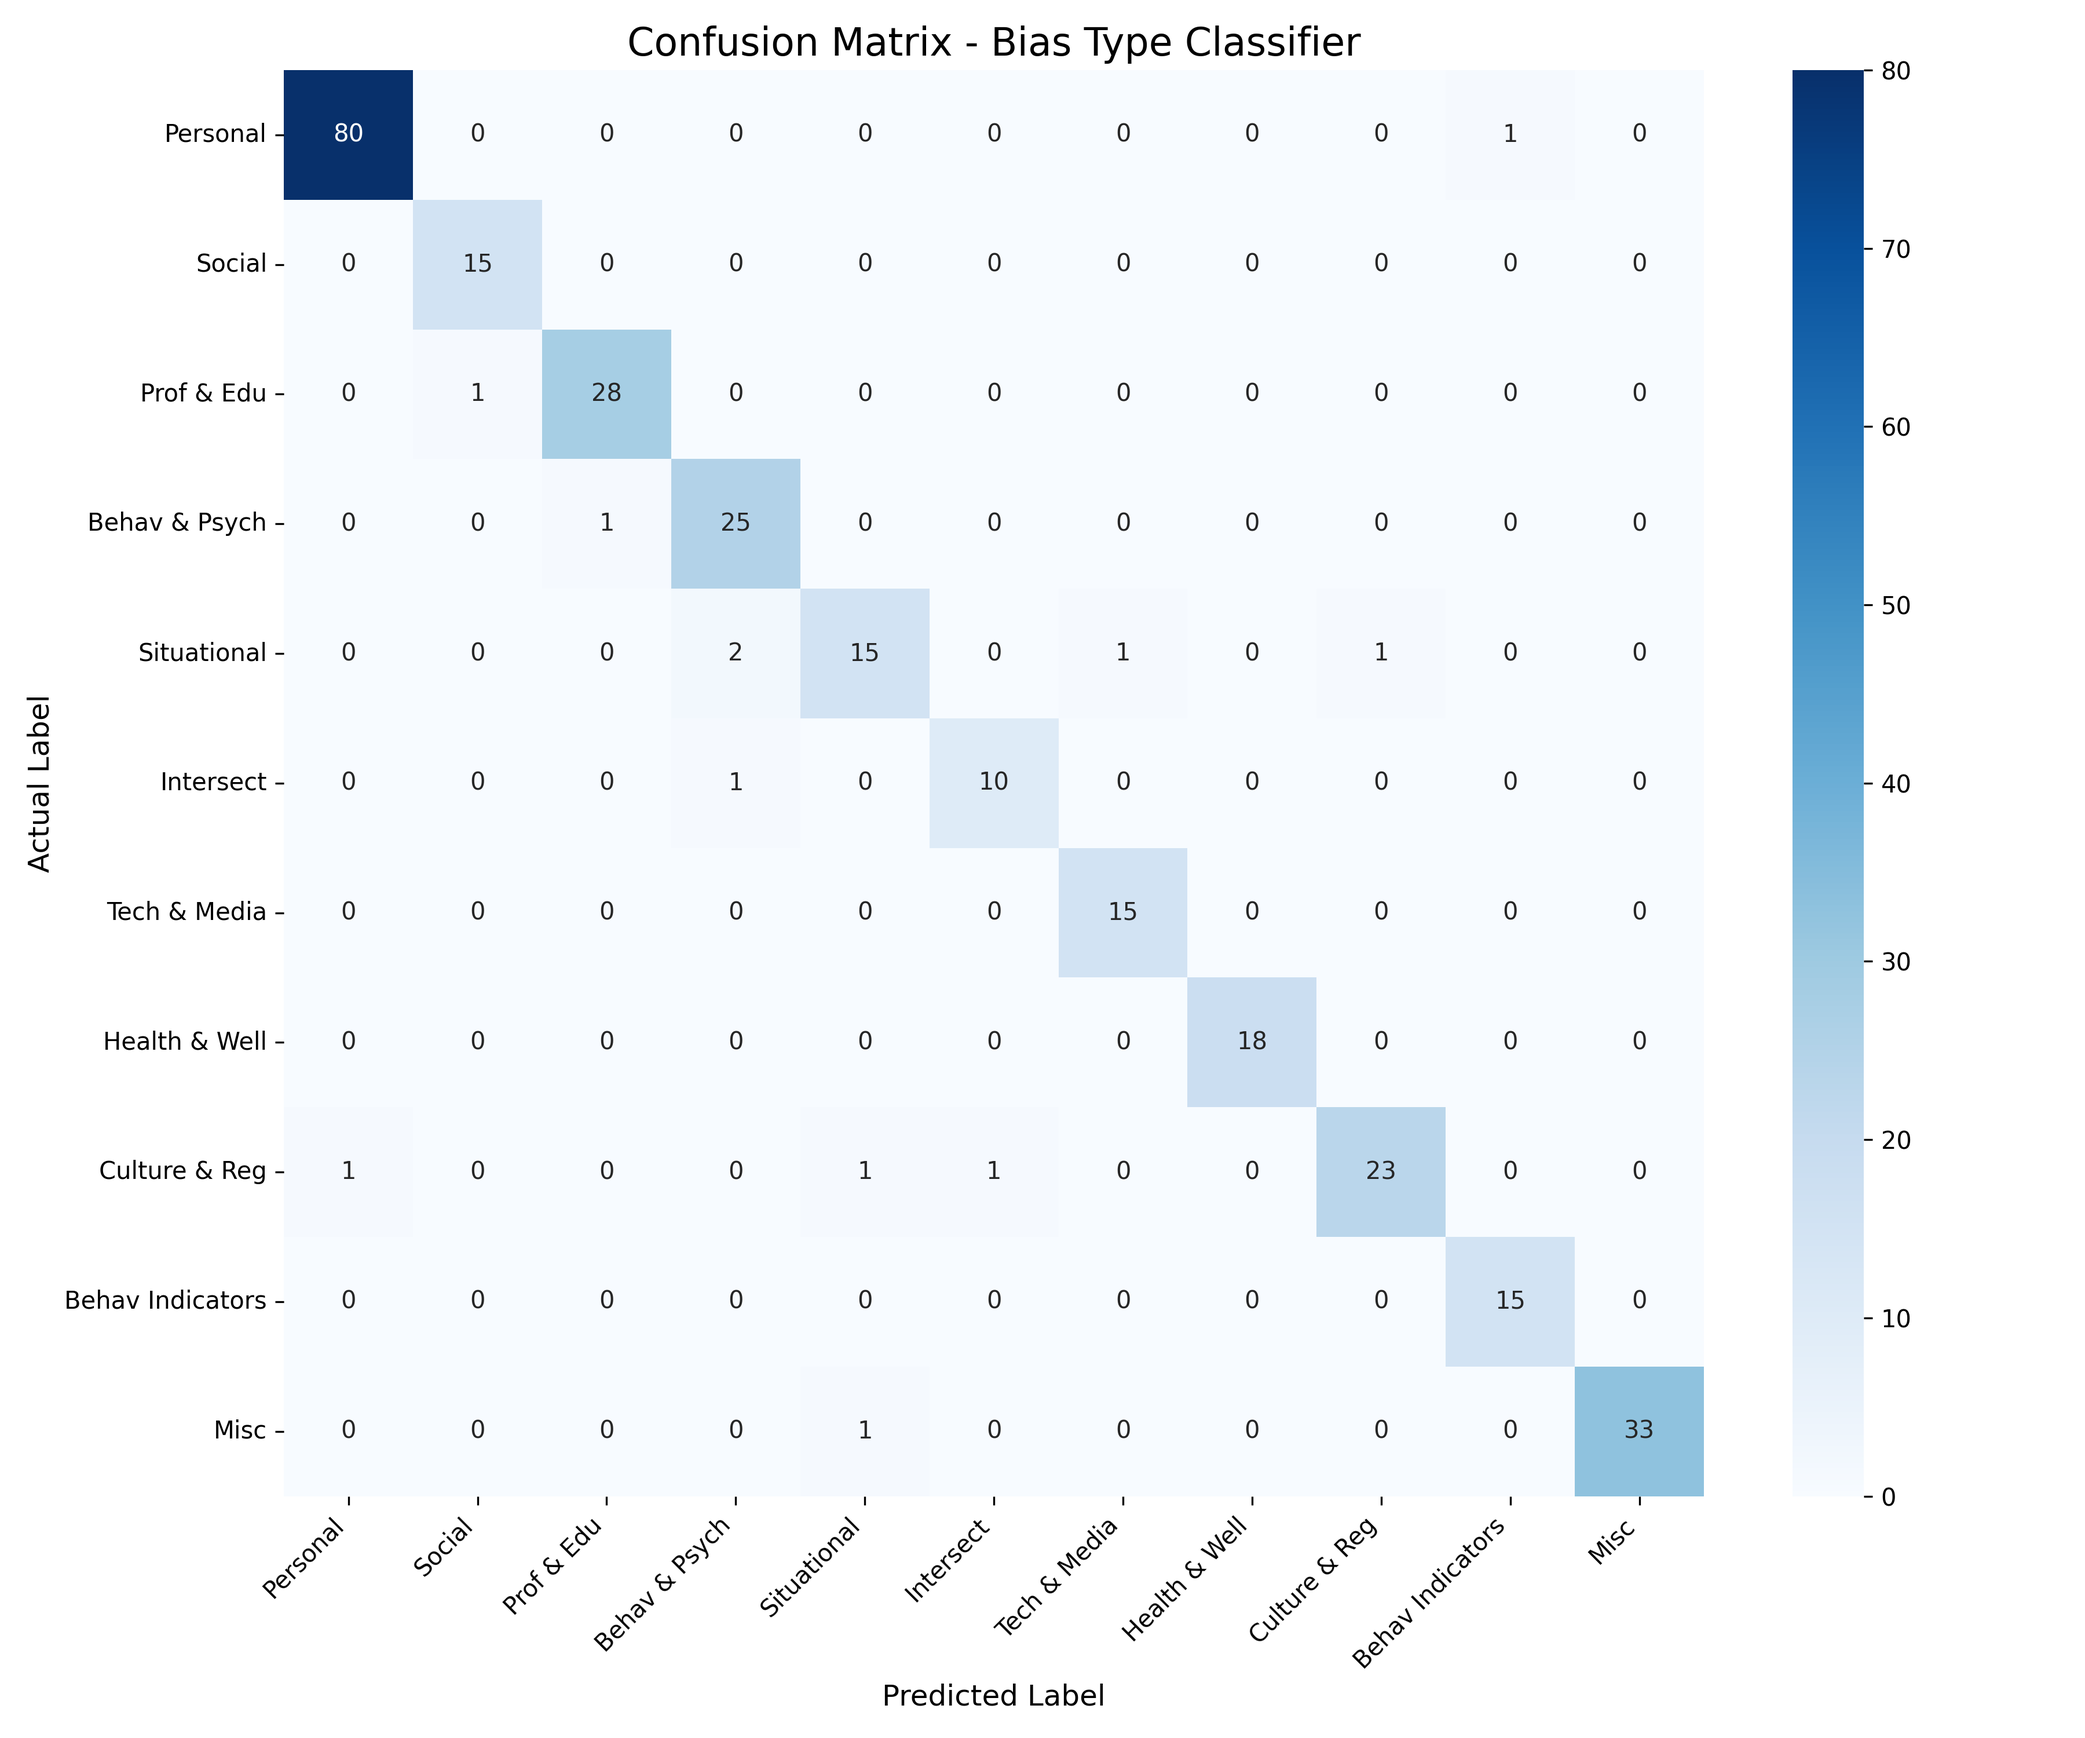
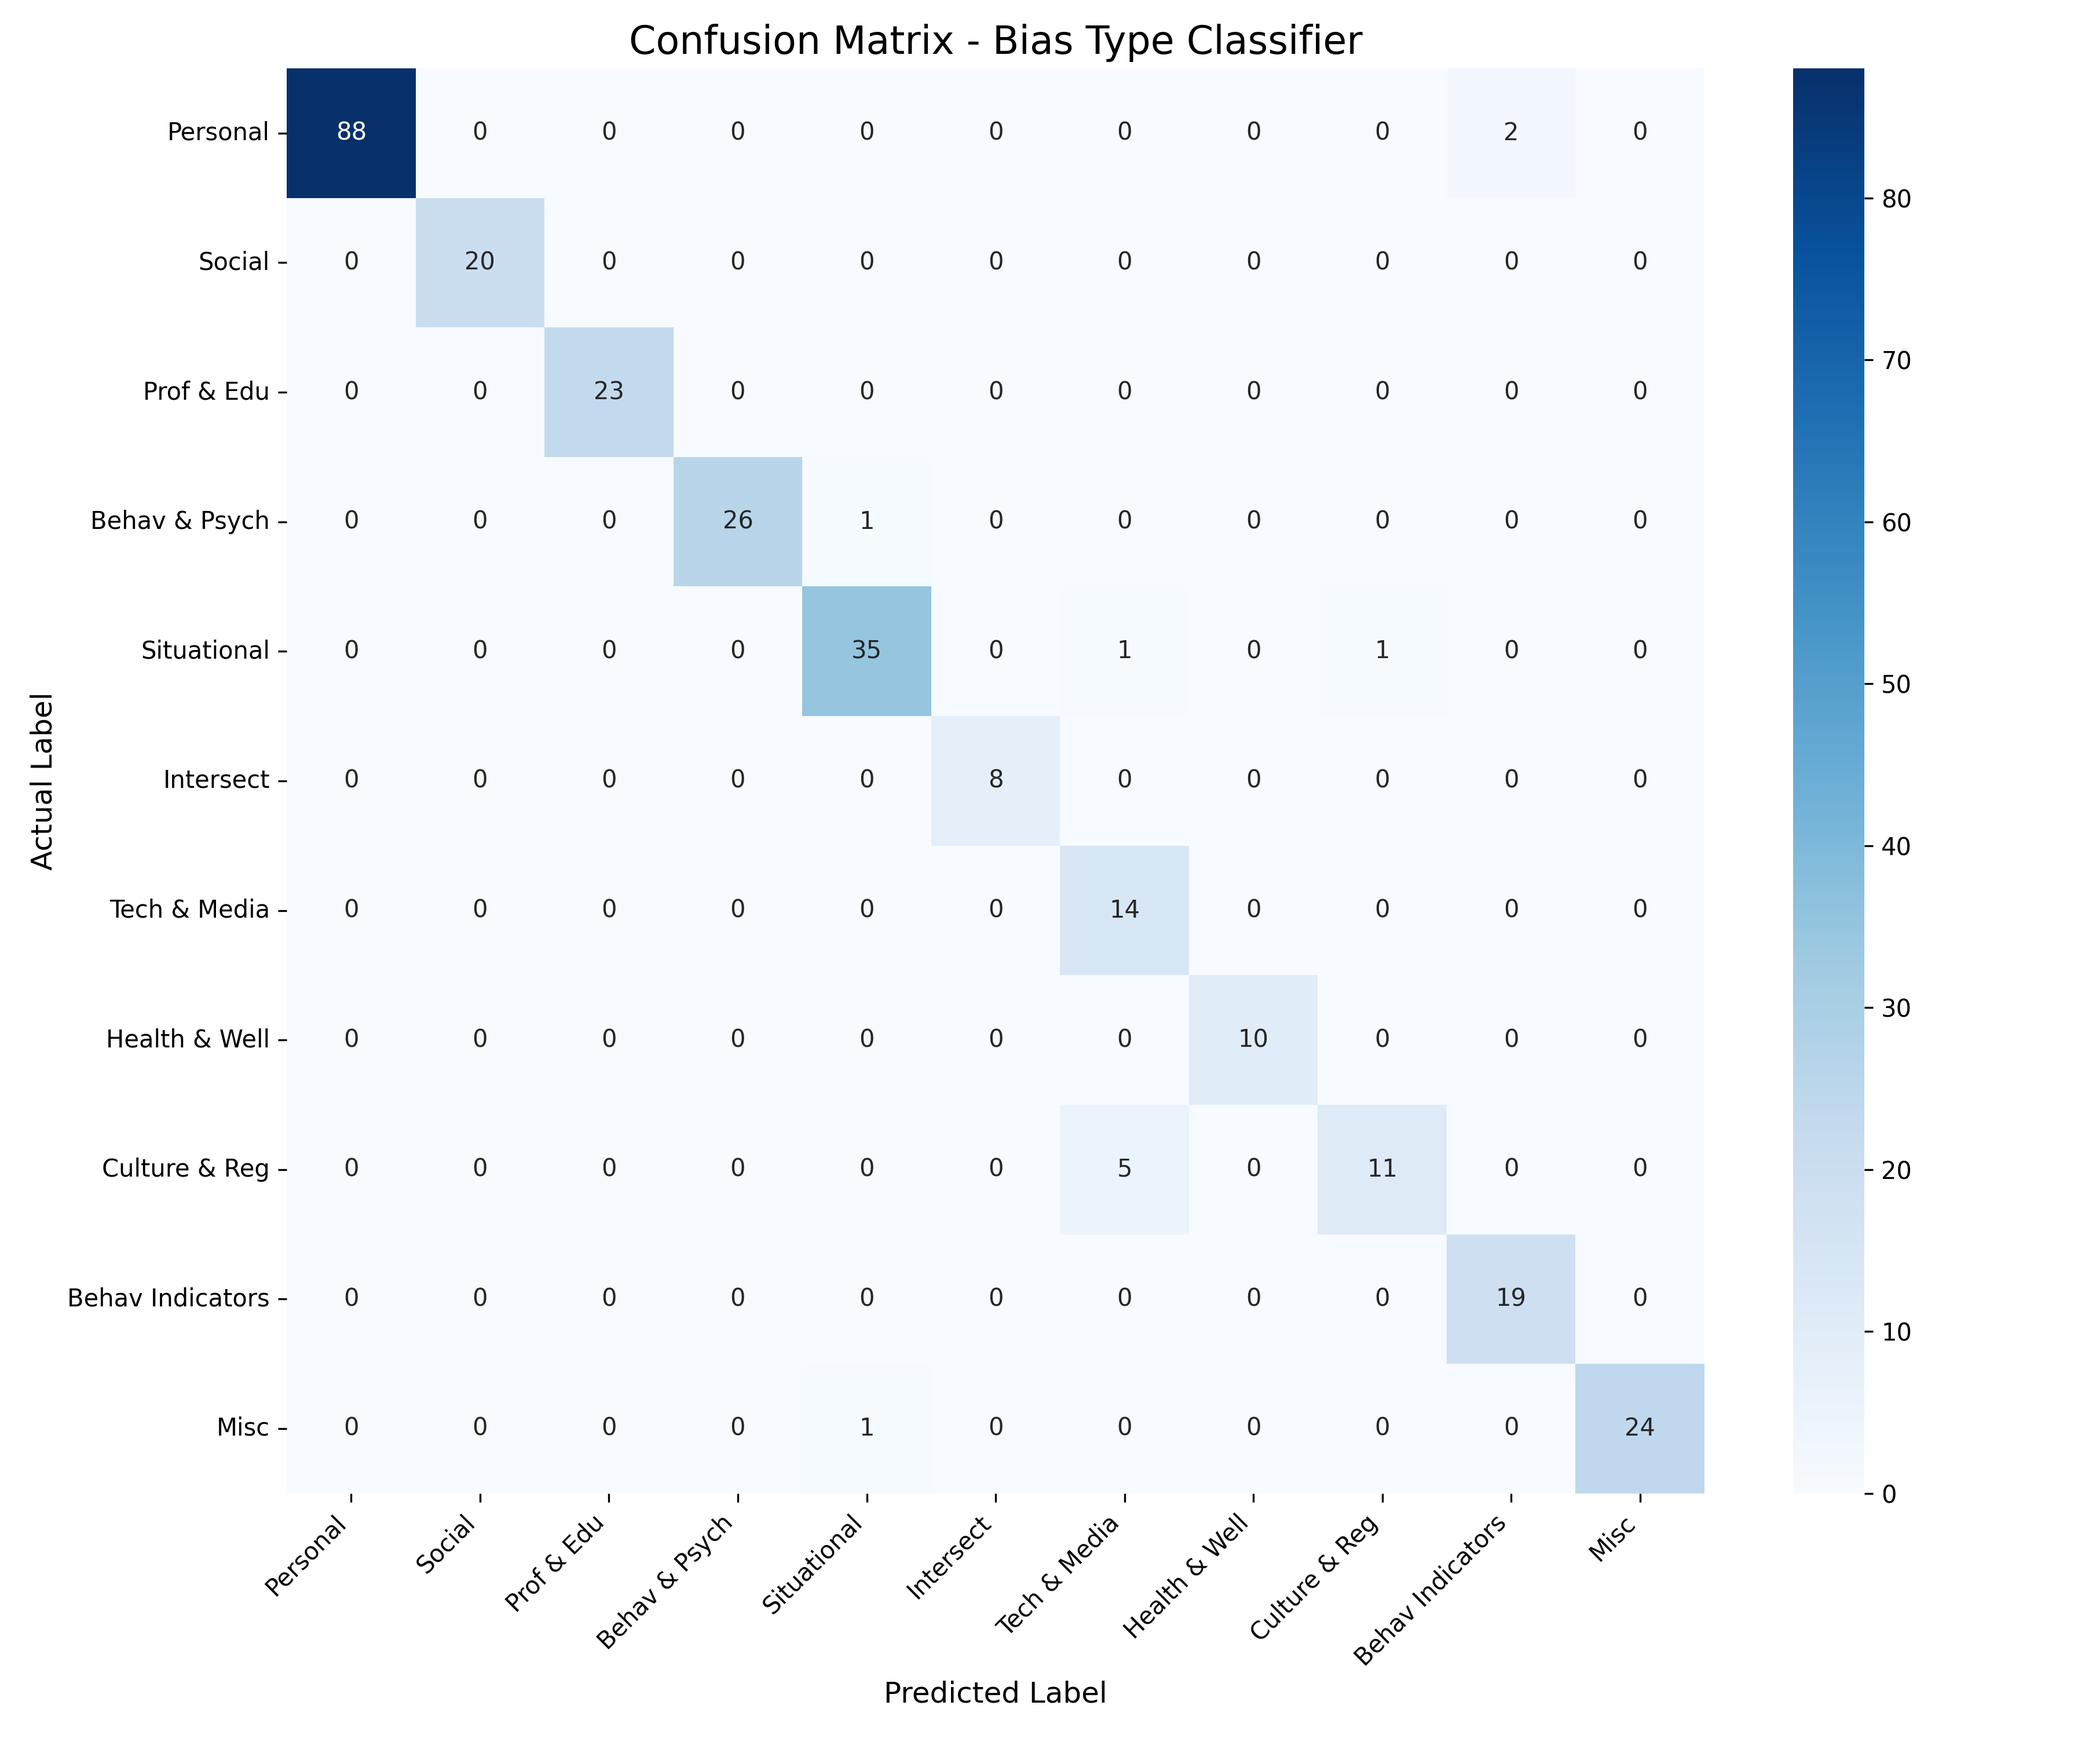
feat: implement bias training pipeline with custom data loaders, metrics, and visualization support

diff --git a/Code/train.py b/Code/train.py
@@ -343,7 +343,7 @@ def main():
         metric_for_best_model="mse",
         greater_is_better=False,
         save_total_limit=1,
-        fp16=(device_name == "cuda"),
+        bf16=(device_name == "cuda"),
         dataloader_pin_memory=False,
         remove_unused_columns=False,
         dataloader_num_workers=2,
@@ -402,7 +402,7 @@ def main():
         metric_for_best_model="accuracy",
         greater_is_better=True,
         save_total_limit=1,
-        fp16=(device_name == "cuda"),
+        bf16=(device_name == "cuda"),
         dataloader_pin_memory=False,
         remove_unused_columns=False,
         dataloader_num_workers=2,
